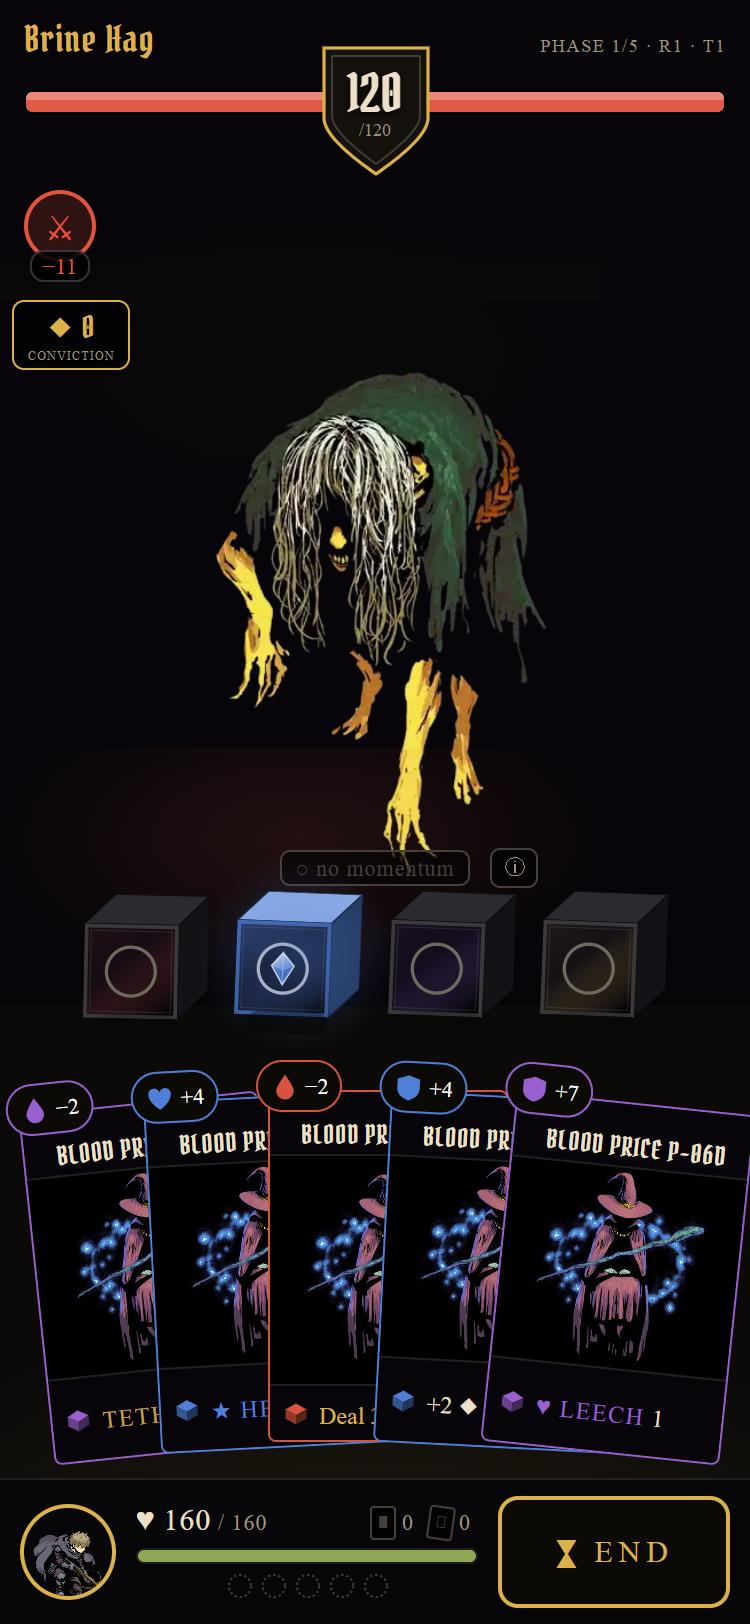
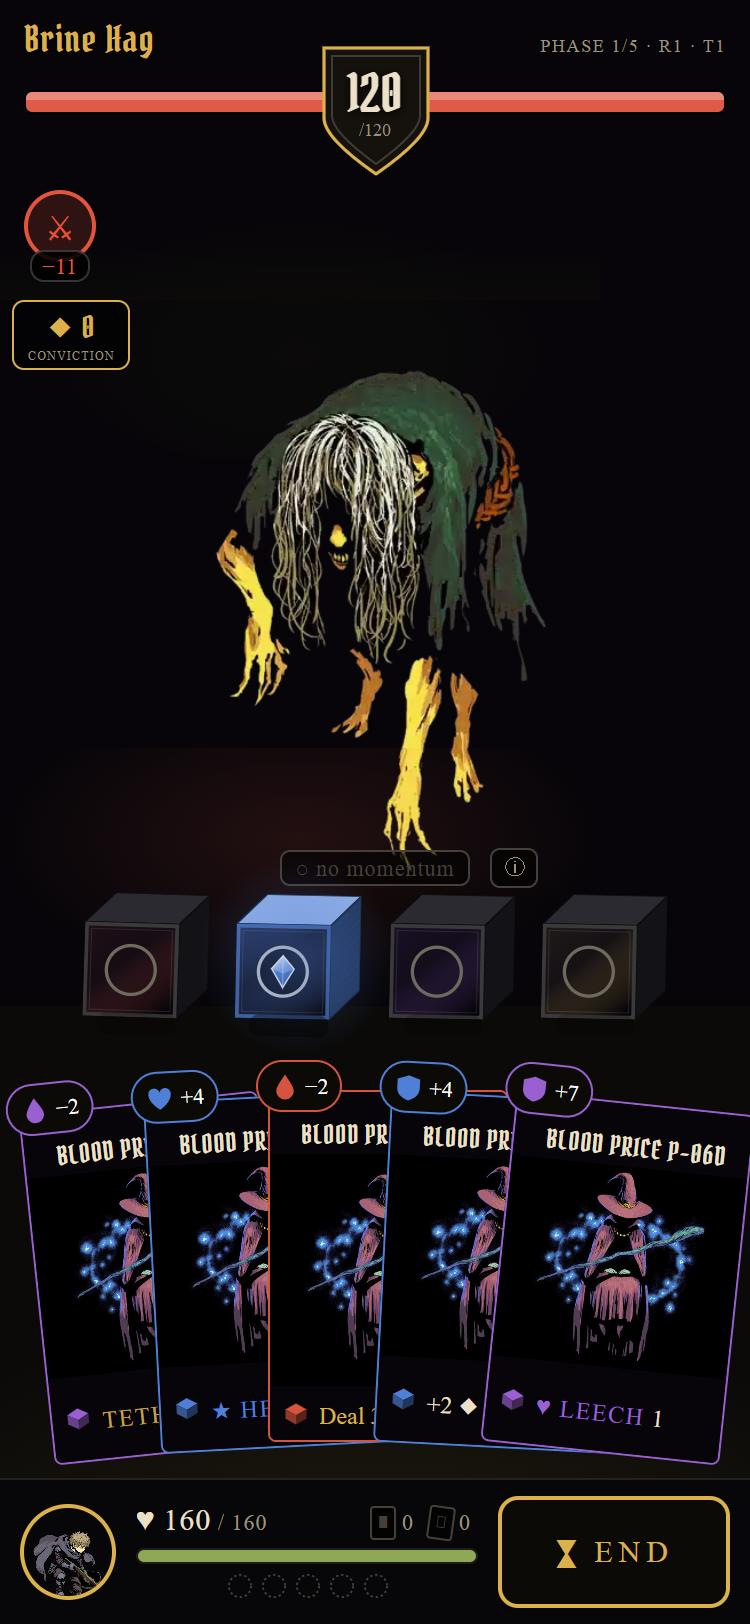
phases: BT2 — no rules around the card art (T 2026-10-13)
A10b also drops the name-band and ledger hairlines on small faces; prototype patch and board screenshot refreshed.

diff --git a/plan/phases/phase_BT2_combat_declutter.md b/plan/phases/phase_BT2_combat_declutter.md
@@ -96,7 +96,9 @@ one line.
 - **A10b Seamless art.** On non-large faces the art plate has no grey mat
   (`plateArtWrap` padding and `panelBg`) and no hairline frame or `deepBg`
   (`plateArtFrame`): the painting runs edge to edge between the name band and
-  the ledger. Large faces keep their framed print.
+  the ledger, and the hairline rules under the name band and over the
+  ledger (`plateBand` / `plateLedger` borders) are gone too, so name, art and
+  PAID line read as one surface. Large faces keep their framed print.
 - **A11 Tap hint removed.** "tap a card to read it" (`combat-tap-hint`) no
   longer renders; tapping a card still opens its detail.
 - **A12 Native parity.** The same layout renders on Android (EAS preview or a
